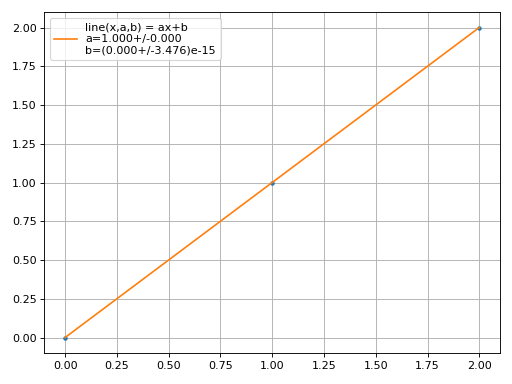
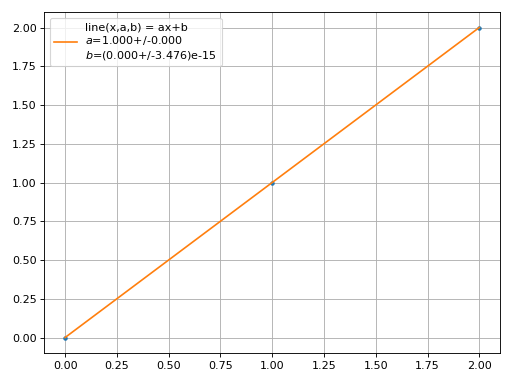
Deploying to gh-pages from  @ 46f5ffa9103cbf3bed100459b6ccd23b7ea56cbc 🚀

Changed region(s): [[0.0938, 0.0625, 0.4375, 0.1875], [0.125, 0.1562, 0.1562, 0.1875]]

diff --git a/searchindex.js b/searchindex.js
@@ -1,1 +1,1 @@
-Search.setIndex({docnames:["_autosummary/smpl.debug","_autosummary/smpl.doc","_autosummary/smpl.fit","_autosummary/smpl.functions","_autosummary/smpl.io","_autosummary/smpl.latex","_autosummary/smpl.parallel","_autosummary/smpl.plot","_autosummary/smpl.stat","_autosummary/smpl.util","example/fit/auto/test_auto","example/fit/custom/test_custom","example/fit/fixed_fit/test_fixed","example/fit/index","example/fit/linear/test_linear","example/fit/selective_fit/test_selective_fit","example/index","example/latex/latex","example/pandas/pandas","example/parallel/parallel","example/plot/functions/funcs","example/plot/index","example/plot/legend/legend","example/plot/multiplot/multi","example/plot/residue/residue","example/uncertainties/uncertainties","index"],envversion:{"sphinx.domains.c":2,"sphinx.domains.changeset":1,"sphinx.domains.citation":1,"sphinx.domains.cpp":3,"sphinx.domains.index":1,"sphinx.domains.javascript":2,"sphinx.domains.math":2,"sphinx.domains.python":2,"sphinx.domains.rst":2,"sphinx.domains.std":1,"sphinx.ext.todo":2,"sphinx.ext.viewcode":1,nbsphinx:3,sphinx:56},filenames:["_autosummary/smpl.debug.rst","_autosummary/smpl.doc.rst","_autosummary/smpl.fit.rst","_autosummary/smpl.functions.rst","_autosummary/smpl.io.rst","_autosummary/smpl.latex.rst","_autosummary/smpl.parallel.rst","_autosummary/smpl.plot.rst","_autosummary/smpl.stat.rst","_autosummary/smpl.util.rst","example/fit/auto/test_auto.ipynb","example/fit/custom/test_custom.ipynb","example/fit/fixed_fit/test_fixed.ipynb","example/fit/index.rst","example/fit/linear/test_linear.ipynb","example/fit/selective_fit/test_selective_fit.ipynb","example/index.rst","example/latex/latex.ipynb","example/pandas/pandas.ipynb","example/parallel/parallel.ipynb","example/plot/functions/funcs.ipynb","example/plot/index.rst","example/plot/legend/legend.ipynb","example/plot/multiplot/multi.ipynb","example/plot/residue/residue.ipynb","example/uncertainties/uncertainties.ipynb","index.rst"],objects:{"":{smpl:[26,0,0,"-"]},"smpl.debug":{file1:[0,1,1,""],file:[0,1,1,""],get_line_number_file:[0,1,1,""],msg1:[0,1,1,""],msg:[0,1,1,""],once:[0,1,1,""],table:[0,1,1,""],table_flush_header:[0,1,1,""],table_flush_line:[0,1,1,""]},"smpl.doc":{append_doc:[1,1,1,""],append_plot:[1,1,1,""],insert_doc:[1,1,1,""],insert_eq:[1,1,1,""],table:[1,1,1,""]},"smpl.fit":{auto:[2,1,1,""],data_split:[2,1,1,""],fit:[2,1,1,""],fit_kwargs:[2,1,1,""]},"smpl.functions":{"const":[3,1,1,""],cos_abs:[3,1,1,""],exponential:[3,1,1,""],gauss:[3,1,1,""],line:[3,1,1,""],linear:[3,1,1,""],lorentz:[3,1,1,""],quadratic:[3,1,1,""]},"smpl.io":{files:[4,1,1,""],gf:[4,1,1,""],mkdirs:[4,1,1,""],pr:[4,1,1,""],pwd:[4,1,1,""]},"smpl.latex":{gf:[5,1,1,""],si:[5,1,1,""],si_line:[5,1,1,""],si_tab:[5,1,1,""],si_ttab:[5,1,1,""]},"smpl.parallel":{calc:[6,1,1,""],gen:[6,1,1,""],par:[6,1,1,""],res:[6,1,1,""]},"smpl.plot":{"function":[7,1,1,""],auto:[7,1,1,""],data:[7,1,1,""],fit:[7,1,1,""],plot_kwargs:[7,1,1,""],unv:[7,1,1,""],usd:[7,1,1,""]},"smpl.stat":{mean:[8,1,1,""],noisy:[8,1,1,""],normalize:[8,1,1,""],novar_mean:[8,1,1,""],poisson_dist:[8,1,1,""],unv:[8,1,1,""],unv_lambda:[8,1,1,""],usd:[8,1,1,""]},"smpl.util":{"true":[9,1,1,""],has:[9,1,1,""]},smpl:{debug:[0,0,0,"-"],doc:[1,0,0,"-"],fit:[2,0,0,"-"],functions:[3,0,0,"-"],io:[4,0,0,"-"],latex:[5,0,0,"-"],parallel:[6,0,0,"-"],plot:[7,0,0,"-"],stat:[8,0,0,"-"],util:[9,0,0,"-"]}},objnames:{"0":["py","module","Python module"],"1":["py","function","Python function"]},objtypes:{"0":"py:module","1":"py:function"},terms:{"000000":18,"0000507902447304":19,"0034626572607985":24,"004652486401592212":11,"004996586085156836":11,"005548445222666175":11,"0175":11,"017517668891345015":11,"0370200979931061":24,"05947578069703216":24,"0675892412774686":11,"083666":18,"100":[10,19,20],"1000":7,"100000":18,"1000000":19,"1024":19,"1089":19,"1156":19,"116905":18,"121":19,"1225":19,"1296":19,"132":11,"1369":19,"137":11,"144":19,"1444":19,"150000":18,"1521":19,"1600":19,"1661903789690602":25,"16645873461885696":25,"166667":18,"1681":19,"169":19,"175000":18,"1764":19,"180":11,"183333":18,"1849":19,"1936":19,"196":19,"19838016816365187":24,"200":15,"200000":18,"2025":19,"2094692219099785e":11,"2116":19,"2209":19,"223":24,"225":19,"2304":19,"2319245292308779":25,"2401":19,"2500":19,"250000":18,"256":19,"25641481109282205":25,"2601":19,"2704":19,"2809":19,"289":19,"2916":19,"2\u03c0f":3,"300000":18,"3025":19,"3136":19,"31556952":19,"324":19,"3249":19,"33546981375820745":25,"3364":19,"3481":19,"3600":19,"361":19,"3721":19,"3844":19,"38541218410236494":25,"3969":19,"400":19,"400000":18,"4096":19,"4123105625617661":25,"4225":19,"43439132":22,"4356":19,"441":19,"4489":19,"4624":19,"4761":19,"484":19,"4900":19,"49820443885945703":25,"500000":18,"5041":19,"5184":19,"529":19,"5329":19,"5476":19,"5625":19,"576":19,"5776":19,"5929":19,"6084":19,"6169371384944835":11,"6241":19,"625":19,"634718":18,"6400":19,"6403124237432849":25,"6561":19,"666667":18,"6724":19,"676":19,"682941969615793":25,"6889":19,"7056":19,"7056000402993361":25,"7225":19,"727892280477045":25,"729":19,"7396":19,"750000":18,"7535456479788305":25,"7569":19,"77077909042768":11,"7744":19,"784":19,"7840124765396412":25,"7921":19,"799999999999997":19,"8100":19,"8281":19,"841":19,"8464":19,"8649":19,"870829":18,"8836":19,"900":19,"9025":19,"9092974268256817":25,"9216":19,"9219544457292886":25,"9409":19,"9604":19,"961":19,"966384":18,"9801":19,"class":[1,7,8],"const":3,"default":[2,7],"float":[7,8],"function":[0,1,2,4,5,6,7,8,9,10,11,12,14,15,16,19,21,22,23,24,25],"import":[3,7,10,11,12,14,15,17,18,19,20,22,23,24,25],"int":[0,23],"new":[4,7,14,19],"return":[0,2,4,5,6,7,8,11,15,19,23],"true":[0,1,2,7,9,24],Axes:24,The:[2,7],__doc__:1,_back:0,_kei:0,_msg:0,_print:0,_valu:0,abov:[0,4],add:[1,7,8],added:8,adt:23,against:7,all:[2,4,7],also:7,also_data:[7,15],also_fit:7,altern:[2,7],amp:[17,18],ani:4,anlg:11,apn:24,append:1,append_doc:1,append_plot:1,appli:8,arg:[1,6,7],arr:[7,8],arrai:[0,2,5,7,8,11,12,14,16,22,24],array_lik:[2,5,7],auto:[2,7,13,16],automat:[2,7],avail:[14,19],axessubplot:18,axi:7,back:0,basic:6,bbox_to_anchor:[7,22],becaus:[7,8],begin:18,best:[2,7],between:7,booktab:18,bool:[0,4],bottom:1,bottomrul:18,calc:[6,19],call:7,can:[7,8],cdot:3,check:9,choos:[2,7],code:[1,3,7],collect:26,color:7,column:7,com:22,combin:8,compat:[5,24],consid:[2,7],contain:[5,7,8],cos:[3,11,20],cos_ab:3,count:18,creat:4,csv:[0,11],current:[0,4],custom:[13,16],dat:24,data:[2,7,10,11,12,14,15,17,18,22,24,25],data_color:7,data_malu:11,data_split:2,datafram:18,datai:[2,7],datax:[2,7],ddot:20,debug_level:0,debug_t:0,def:[1,6,11,15,19,23],delimit:[11,18,24],delta:25,deriv:[7,8],describ:18,descript:[2,7],deviat:[7,8],dic:1,dict:[1,9],differ:7,digit:[4,5],directori:4,dirti:24,displai:7,doc:18,docstr:1,document:1,doe:[7,8],donatello:18,dot:[21,23],dtype:[11,24],each:[6,25],egg:24,either:[2,7],element:[0,2,6,7,8],enabl:[2,7],end:[4,18],equal:1,error:[8,25],errorbar:7,evalu:6,exampl:[1,6,7,26],execut:6,exp:[3,10,21,23],exponenti:3,fals:[0,4,7,15,23,24],figur:24,file1:0,file:[0,4,7],filenam:0,filenumb:0,first:[0,2,7],fit:[7,16,22,24,26],fit_color:7,fit_kwarg:[2,7],fix:[2,7,13,16,20],fixed_param:[2,7],fmt:[5,7,10,12,14,15,22,24],folder:[0,4],form:5,format:[4,5,7],found:10,frac:[3,20,23,25],frame:0,frang:[2,7,15],freq:18,from:[0,1,2,3,6,7,8,10,11,12,14,15,17,18,19,20,22,23,24,25],func:[2,7],gauss:3,gen:6,gener:[6,9],get:[0,4,5],get_line_number_fil:0,github:26,give:25,given:[2,7],gompertz:23,grid:7,has:9,have:7,here:25,highest:[2,7],hiho:1,hire:[3,7],home:24,http:[18,22,25],i_max:11,i_min:11,impli:[20,23],includ:[0,24],incorrect:24,index:[2,7,26],indic:0,init:[1,7,15,23,24],initi:[2,7],input:[4,5],insert:1,insert_doc:1,insert_eq:1,instal:[14,19],integ:[2,7],intens:11,interpol:[7,15],its:1,just:0,kei:[0,1,9],kwarg:[0,2,6,7],label:[7,10,12,14,15,22,24],lambda:[6,15,20],latest:25,latex:[16,26],left:3,legend:[7,16,21],level:0,lib:24,like:0,limit:[2,7],line:[3,4,5,7,12,14,15,22,24],line_:0,linear:[3,13,16,22],linenumb:0,linspac:[10,15],list:[2,3,6,7],llll:18,loadtxt:[10,11,12,14,15,17,22,24,25],local:24,log:[20,23],logarithm:7,logi:[7,24],logx:7,long_calc:19,loop:[2,7],lorentz:3,lowest:[2,7],lpo:[7,14,22],lt0:20,main:7,malu:11,mani:5,mask:[2,7,18],mathbb:20,matplotlib:24,matrix:[7,8],max:[11,18],mean:[8,18],messag:0,metast:20,midrul:18,might:24,min:[11,18],mkdir:4,model:24,modul:[7,8,26],msg1:0,msg:0,multi:[16,21],name:[2,7,18],ncol:[7,22],neccessari:4,need:18,nnl:4,nois:8,noisi:[8,10,15],nomin:[7,8],none:[2,7,9],normal:8,novar_mean:8,number:[0,5,7,8,16],number_format:7,numpi:[7,8,10,11,12,14,15,17,20,22,23,24,25],object:[1,11,24],onc:0,one:[0,2,7],onli:[0,7,8,20],optim:7,option:[2,7],order:[2,7],org:18,origin:1,orign:1,out:7,output:[4,5],over:[2,7],packag:[24,25],page:26,panda:[16,26],pane:7,par:[6,19],parallel:[16,26],param:[2,7,11,14,22],paramet:[0,1,2,4,5,7],partial:25,pass:[1,4,7,8],path:4,pdf:[3,7],phi:3,pip:[14,19],plot:[1,3,10,11,12,14,15,16,19,22,26],plot_kwarg:7,plt:[7,24],png:[3,7],point:[2,7,20],poisson_dist:8,poissonian:8,posit:7,prang:7,print:[0,1,4,6,17,18,19,25],propag:25,pure:[7,8],purpl:18,pwd:4,py3:24,pydata:18,pyplot:24,python3:24,python:[0,1,25],quadrat:3,rad:11,rang:[2,6,7,19],raphael:18,rdata:18,read:16,read_csv:18,readthedoc:25,red:18,res:[6,19],residu:[7,16,21],residue_err:[7,24],resolut:7,rest:1,result:[7,8,24],right:3,round:7,sai:18,same:[2,7],save:[0,7],scientif:[4,5],search:26,second:[0,2,7],see:[2,7,18,22,25],select:[2,7,13,16],selector:[2,7,15],separ:23,seper:0,set:[0,2,7],shift:7,should:0,show:[7,15,23],si_lin:[5,17],si_tab:[5,17],si_ttab:[5,17],sigma:[7,10,12,14,15,24],sign:1,simpl:1,simplifi:[0,1,2,4,5,7,8,9,26],simultan:[7,8],sin:[15,25],singl:16,sinu:15,sistr:5,site:24,size:7,skip:5,skiprow:[11,24],smpl:[10,11,12,14,15,17,18,19,20,22,23,24],solution_gompertz:23,sort:[2,7],sortbyx:[2,7],sourc:[0,1,2,3,4,5,6,7,8,9],split:[0,2],sqrt:25,stabl:[18,20],stack:0,stackoverflow:22,staff:18,standard:[7,8],stat:[10,15],statist:8,std:[8,15,18],step:[7,20],str:[0,5],string:[1,5,7],tab:[1,5],tabl:[0,1,5],table_flush_head:0,table_flush_lin:0,tabstr:5,tabular:18,tag:0,take:[2,7],tan:21,target:1,tesla:17,test:19,test_custom_data:11,test_data:15,test_linear_data:[10,12,14,17,18,22,24,25],test_quad_data:10,thi:[5,7,8,24,25],through:[7,8],tight_layout:24,time:[0,7],to_latex:18,top:[1,18],toprul:18,transpos:5,tupl:7,twice:6,txt:[10,12,14,15,17,18,22,24,25],type:[7,8],uarrai:[2,7,10,11,12,14,15,17,18,22,24,25],ufloat:[5,12,17,25],umath:25,uncertaint:7,uncertainti:[5,7,8,10,11,12,14,15,16,17,22,24,26],unchang:4,uniqu:18,unit:[5,7,11,24],unp:[2,7,10,11,12,14,15,17,18,22,24,25],unreleas:[20,23,24],unstabl:20,untouch:[7,8],unumpi:[7,8,10,11,12,14,15,17,18,22,24,25],unv:[7,8],unv_lambda:8,unvertainti:8,upgrad:[14,19],usd:[7,8],used:7,usepackag:18,user:[14,19],userwarn:24,using:[20,23,24],util:26,valu:[0,1,5,6,7,8],variabl:[2,7,23],varianc:8,variou:3,veri:6,version:[14,19,20,23,24],via:[7,14,19],weapon:18,whenev:0,which:8,whole:7,within:0,x_0:3,xaxi:[7,10,11,12,14,15,20,22,23,24],xdata:[10,11,12,14,15,17,22,24,25],xerr:[2,10,12,14,15,17,22,24,25],xlabel:18,xmax:[1,3,7,20,23],xmin:[1,3,7,20,23],y_0:3,yaxi:[7,10,11,12,14,15,20,22,23,24],ydata:[8,10,11,12,14,15,17,22,24,25],yerr:[2,10,12,14,15,17,22,24,25],yield:25,ymodel:24,you:[20,23,24]},titles:["<code class=\"xref py py-mod docutils literal notranslate\"><span class=\"pre\">smpl.debug</span></code>","<code class=\"xref py py-mod docutils literal notranslate\"><span class=\"pre\">smpl.doc</span></code>","<code class=\"xref py py-mod docutils literal notranslate\"><span class=\"pre\">smpl.fit</span></code>","<code class=\"xref py py-mod docutils literal notranslate\"><span class=\"pre\">smpl.functions</span></code>","<code class=\"xref py py-mod docutils literal notranslate\"><span class=\"pre\">smpl.io</span></code>","<code class=\"xref py py-mod docutils literal notranslate\"><span class=\"pre\">smpl.latex</span></code>","<code class=\"xref py py-mod docutils literal notranslate\"><span class=\"pre\">smpl.parallel</span></code>","<code class=\"xref py py-mod docutils literal notranslate\"><span class=\"pre\">smpl.plot</span></code>","<code class=\"xref py py-mod docutils literal notranslate\"><span class=\"pre\">smpl.stat</span></code>","<code class=\"xref py py-mod docutils literal notranslate\"><span class=\"pre\">smpl.util</span></code>","Auto Fit","Custom Fit","Fixed Fit","Fitting","Linear Fit","Selective Fit","Examples","Latex","pandas","Parallel","Function Plot","Plotting","Legend","Multi Plot","Residue Plot","uncertainties","smpl 0.0.65 documentation"],titleterms:{"function":[3,20],arrai:25,auto:10,custom:11,debug:0,doc:1,document:26,dot:20,exampl:16,exp:20,fit:[2,10,11,12,13,14,15],fix:12,indic:26,latex:[5,17,18],legend:22,linear:14,multi:23,number:25,packag:26,panda:18,parallel:[6,19],plot:[7,18,20,21,23,24],read:18,residu:24,select:15,singl:25,smpl:[0,1,2,3,4,5,6,7,8,9,26],stat:8,tabl:26,tan:20,uncertainti:[18,25],util:9}})
+Search.setIndex({docnames:["_autosummary/smpl.debug","_autosummary/smpl.doc","_autosummary/smpl.fit","_autosummary/smpl.functions","_autosummary/smpl.io","_autosummary/smpl.latex","_autosummary/smpl.parallel","_autosummary/smpl.plot","_autosummary/smpl.stat","_autosummary/smpl.util","example/fit/auto/test_auto","example/fit/custom/test_custom","example/fit/fixed_fit/test_fixed","example/fit/index","example/fit/linear/test_linear","example/fit/selective_fit/test_selective_fit","example/index","example/latex/latex","example/pandas/pandas","example/parallel/parallel","example/plot/functions/funcs","example/plot/index","example/plot/legend/legend","example/plot/multiplot/multi","example/plot/residue/residue","example/uncertainties/uncertainties","index"],envversion:{"sphinx.domains.c":2,"sphinx.domains.changeset":1,"sphinx.domains.citation":1,"sphinx.domains.cpp":3,"sphinx.domains.index":1,"sphinx.domains.javascript":2,"sphinx.domains.math":2,"sphinx.domains.python":2,"sphinx.domains.rst":2,"sphinx.domains.std":1,"sphinx.ext.todo":2,"sphinx.ext.viewcode":1,nbsphinx:3,sphinx:56},filenames:["_autosummary/smpl.debug.rst","_autosummary/smpl.doc.rst","_autosummary/smpl.fit.rst","_autosummary/smpl.functions.rst","_autosummary/smpl.io.rst","_autosummary/smpl.latex.rst","_autosummary/smpl.parallel.rst","_autosummary/smpl.plot.rst","_autosummary/smpl.stat.rst","_autosummary/smpl.util.rst","example/fit/auto/test_auto.ipynb","example/fit/custom/test_custom.ipynb","example/fit/fixed_fit/test_fixed.ipynb","example/fit/index.rst","example/fit/linear/test_linear.ipynb","example/fit/selective_fit/test_selective_fit.ipynb","example/index.rst","example/latex/latex.ipynb","example/pandas/pandas.ipynb","example/parallel/parallel.ipynb","example/plot/functions/funcs.ipynb","example/plot/index.rst","example/plot/legend/legend.ipynb","example/plot/multiplot/multi.ipynb","example/plot/residue/residue.ipynb","example/uncertainties/uncertainties.ipynb","index.rst"],objects:{"":{smpl:[26,0,0,"-"]},"smpl.debug":{file1:[0,1,1,""],file:[0,1,1,""],get_line_number_file:[0,1,1,""],msg1:[0,1,1,""],msg:[0,1,1,""],once:[0,1,1,""],table:[0,1,1,""],table_flush_header:[0,1,1,""],table_flush_line:[0,1,1,""]},"smpl.doc":{append_doc:[1,1,1,""],append_plot:[1,1,1,""],insert_doc:[1,1,1,""],insert_eq:[1,1,1,""],table:[1,1,1,""]},"smpl.fit":{auto:[2,1,1,""],data_split:[2,1,1,""],fit:[2,1,1,""],fit_kwargs:[2,1,1,""]},"smpl.functions":{"const":[3,1,1,""],cos_abs:[3,1,1,""],exponential:[3,1,1,""],gauss:[3,1,1,""],line:[3,1,1,""],linear:[3,1,1,""],lorentz:[3,1,1,""],quadratic:[3,1,1,""]},"smpl.io":{files:[4,1,1,""],gf:[4,1,1,""],mkdirs:[4,1,1,""],pr:[4,1,1,""],pwd:[4,1,1,""]},"smpl.latex":{gf:[5,1,1,""],si:[5,1,1,""],si_line:[5,1,1,""],si_tab:[5,1,1,""],si_ttab:[5,1,1,""]},"smpl.parallel":{calc:[6,1,1,""],gen:[6,1,1,""],par:[6,1,1,""],res:[6,1,1,""]},"smpl.plot":{"function":[7,1,1,""],auto:[7,1,1,""],data:[7,1,1,""],fit:[7,1,1,""],plot_kwargs:[7,1,1,""],unv:[7,1,1,""],usd:[7,1,1,""]},"smpl.stat":{mean:[8,1,1,""],noisy:[8,1,1,""],normalize:[8,1,1,""],novar_mean:[8,1,1,""],poisson_dist:[8,1,1,""],unv:[8,1,1,""],unv_lambda:[8,1,1,""],usd:[8,1,1,""]},"smpl.util":{"true":[9,1,1,""],has:[9,1,1,""]},smpl:{debug:[0,0,0,"-"],doc:[1,0,0,"-"],fit:[2,0,0,"-"],functions:[3,0,0,"-"],io:[4,0,0,"-"],latex:[5,0,0,"-"],parallel:[6,0,0,"-"],plot:[7,0,0,"-"],stat:[8,0,0,"-"],util:[9,0,0,"-"]}},objnames:{"0":["py","module","Python module"],"1":["py","function","Python function"]},objtypes:{"0":"py:module","1":"py:function"},terms:{"000000":18,"0000507902447304":19,"0034626572607985":24,"004652486401592212":11,"004996586085156836":11,"005548445222666175":11,"0175":11,"017517668891345015":11,"0370200979931061":24,"05947578069703216":24,"0675892412774686":11,"083666":18,"100":[10,19,20],"1000":7,"100000":18,"1000000":19,"1024":19,"1089":19,"1156":19,"116905":18,"121":19,"1225":19,"1296":19,"132":11,"1369":19,"137":11,"144":19,"1444":19,"150000":18,"1521":19,"1600":19,"1661903789690602":25,"16645873461885696":25,"166667":18,"1681":19,"169":19,"175000":18,"1764":19,"180":11,"183333":18,"1849":19,"1936":19,"196":19,"19838016816365187":24,"200":15,"200000":18,"2025":19,"2094692219099785e":11,"2116":19,"2209":19,"223":24,"225":19,"2304":19,"2319245292308779":25,"2401":19,"2500":19,"250000":18,"256":19,"25641481109282205":25,"2601":19,"2704":19,"2809":19,"289":19,"2916":19,"2\u03c0f":3,"300000":18,"3025":19,"3136":19,"31556952":19,"324":19,"3249":19,"33546981375820745":25,"3364":19,"3481":19,"3600":19,"361":19,"3721":19,"3844":19,"38541218410236494":25,"3969":19,"400":19,"400000":18,"4096":19,"4123105625617661":25,"4225":19,"43439132":22,"4356":19,"441":19,"4489":19,"4624":19,"4761":19,"484":19,"4900":19,"49820443885945703":25,"500000":18,"5041":19,"5184":19,"529":19,"5329":19,"5476":19,"5625":19,"576":19,"5776":19,"5929":19,"6084":19,"6169371384944835":11,"6241":19,"625":19,"634718":18,"6400":19,"6403124237432849":25,"6561":19,"666667":18,"6724":19,"676":19,"682941969615793":25,"6889":19,"7056":19,"7056000402993361":25,"7225":19,"727892280477045":25,"729":19,"7396":19,"750000":18,"7535456479788305":25,"7569":19,"77077909042768":11,"7744":19,"784":19,"7840124765396412":25,"7921":19,"799999999999997":19,"8100":19,"8281":19,"841":19,"8464":19,"8649":19,"870829":18,"8836":19,"900":19,"9025":19,"9092974268256817":25,"9216":19,"9219544457292886":25,"9409":19,"9604":19,"961":19,"966384":18,"9801":19,"class":[1,7,8],"const":3,"default":[2,7],"float":[7,8],"function":[0,1,2,4,5,6,7,8,9,10,11,12,14,15,16,19,21,22,23,24,25],"import":[3,7,10,11,12,14,15,17,18,19,20,22,23,24,25],"int":[0,23],"new":[4,7,14,19],"return":[0,2,4,5,6,7,8,11,15,19,23],"true":[0,1,2,7,9,24],Axes:24,The:[2,7],__doc__:1,_back:0,_kei:0,_msg:0,_print:0,_valu:0,abov:[0,4],add:[1,7,8],added:8,adt:23,against:7,all:[2,4,7],also:7,also_data:[7,15],also_fit:7,altern:[2,7],amp:[17,18],ani:4,anlg:11,apn:24,append:1,append_doc:1,append_plot:1,appli:8,arg:[1,6,7],arr:[7,8],arrai:[0,2,5,7,8,11,12,14,16,22,24],array_lik:[2,5,7],auto:[2,7,13,16],automat:[2,7],avail:[14,19],axessubplot:18,axi:7,back:0,basic:6,bbox_to_anchor:[7,22],becaus:[7,8],begin:18,best:[2,7],between:7,booktab:18,bool:[0,4],bottom:1,bottomrul:18,calc:[6,19],call:7,can:[7,8],cdot:3,check:9,choos:[2,7],code:[1,3,7],collect:26,color:7,column:7,com:22,combin:8,compat:[5,24],consid:[2,7],contain:[5,7,8],cos:[3,11,20],cos_ab:3,count:18,creat:4,csv:[0,11],current:[0,4],custom:[13,16],dat:24,data:[2,7,10,11,12,14,15,17,18,22,24,25],data_color:7,data_malu:11,data_split:2,datafram:18,datai:[2,7],datax:[2,7],ddot:20,debug_level:0,debug_t:0,def:[1,6,11,15,19,23],delimit:[11,18,24],delta:25,deriv:[7,8],describ:18,descript:[2,7],deviat:[7,8],dic:1,dict:[1,9],differ:7,digit:[4,5],directori:4,dirti:24,displai:7,doc:18,docstr:1,document:1,doe:[7,8],donatello:18,dot:[21,23],dtype:[11,24],each:[6,25],egg:24,either:[2,7],element:[0,2,6,7,8],enabl:[2,7],end:[4,18],equal:1,error:[8,25],errorbar:7,evalu:6,exampl:[1,6,7,26],execut:6,exp:[3,10,21,23],exponenti:3,fals:[0,4,7,15,23,24],figur:24,file1:0,file:[0,4,7],filenam:0,filenumb:0,first:[0,2,7],fit:[7,16,22,24,26],fit_color:7,fit_kwarg:[2,7],fix:[2,7,13,16,20],fixed_param:[2,7],fmt:[5,7,10,12,14,15,22,24],folder:[0,4],form:5,format:[4,5,7],found:10,frac:[3,20,23,25],frame:0,frang:[2,7,15],freq:18,from:[0,1,2,3,6,7,8,10,11,12,14,15,17,18,19,20,22,23,24,25],func:[2,7],gauss:3,gen:6,gener:[6,9],get:[0,4,5],get_line_number_fil:0,github:26,give:25,given:[2,7],gompertz:23,grid:7,has:9,have:7,here:25,highest:[2,7],hiho:1,hire:[3,7],home:24,http:[18,22,25],i_max:11,i_min:11,impli:[20,23],includ:[0,24],incorrect:24,index:[2,7,26],indic:0,init:[1,7,15,23,24],initi:[2,7],input:[4,5],insert:1,insert_doc:1,insert_eq:1,instal:[14,19],integ:[2,7],intens:11,interpol:[7,15],its:1,just:0,kei:[0,1,9],kwarg:[0,2,6,7],label:[7,10,12,14,15,22,24],lambda:[6,15,20],latest:25,latex:[16,26],left:3,legend:[7,16,21],level:0,lib:24,like:0,limit:[2,7],line:[3,4,5,7,12,14,15,22,24],line_:0,linear:[3,13,16,22],linenumb:0,linspac:[10,15],list:[2,3,6,7],llll:18,loadtxt:[10,11,12,14,15,17,22,24,25],local:24,log:[20,23],logarithm:7,logi:[7,24],logx:7,long_calc:19,loop:[2,7],lorentz:3,lowest:[2,7],lpo:[7,14,22],lt0:20,main:7,malu:11,mani:5,mask:[2,7,18],mathbb:20,matplotlib:24,matrix:[7,8],max:[11,18],mean:[8,18],messag:0,metast:20,midrul:18,might:24,min:[11,18],mkdir:4,model:24,modul:[7,8,26],msg1:0,msg:0,multi:[16,21],name:[2,7,18],ncol:[7,22],neccessari:4,need:18,nnl:4,nois:8,noisi:[8,10,15],nomin:[7,8],none:[2,7,9],normal:8,novar_mean:8,number:[0,5,7,8,16],number_format:7,numpi:[7,8,10,11,12,14,15,17,20,22,23,24,25],object:[1,11,24],onc:0,one:[0,2,7],onli:[0,7,8,20],optim:7,option:[2,7],order:[2,7],org:18,origin:1,orign:1,out:7,output:[4,5],over:[2,7],packag:[24,25],page:26,panda:[16,26],pane:7,par:[6,19],parallel:[16,26],param:[2,7,11,14,22],paramet:[0,1,2,4,5,7],partial:25,pass:[1,4,7,8],path:4,pdf:[3,7],phi:3,pip:[14,19],plot:[1,3,10,11,12,14,15,16,19,22,26],plot_kwarg:7,plt:[7,24],png:[3,7],point:[2,7,20],poisson_dist:8,poissonian:8,posit:7,prang:7,print:[0,1,4,6,17,18,19,25],propag:25,pure:[7,8],purpl:18,pwd:4,py3:24,pydata:18,pyplot:24,python3:24,python:[0,1,25],quadrat:3,rad:11,rang:[2,6,7,19],raphael:18,rdata:18,read:16,read_csv:18,readthedoc:25,red:18,res:[6,19],residu:[7,16,21],residue_err:[7,24],resolut:7,rest:1,result:[7,8,24],right:3,round:7,sai:18,same:[2,7],save:[0,7],scientif:[4,5],search:26,second:[0,2,7],see:[2,7,18,22,25],select:[2,7,13,16],selector:[2,7,15],separ:23,seper:0,set:[0,2,7],shift:7,should:0,show:[7,15,23],si_lin:[5,17],si_tab:[5,17],si_ttab:[5,17],sigma:[7,10,12,14,15,24],sign:1,simpl:1,simplifi:[0,1,2,4,5,7,8,9,26],simultan:[7,8],sin:[15,25],singl:16,sinu:15,sistr:5,site:24,size:7,skip:5,skiprow:[11,24],smpl:[10,11,12,14,15,17,18,19,20,22,23,24],solution_gompertz:23,sort:[2,7],sortbyx:[2,7],sourc:[0,1,2,3,4,5,6,7,8,9],split:[0,2],sqrt:25,stabl:[18,20],stack:0,stackoverflow:22,staff:18,standard:[7,8],stat:[10,15],statist:8,std:[8,15,18],step:[7,20],str:[0,5],string:[1,5,7],tab:[1,5],tabl:[0,1,5],table_flush_head:0,table_flush_lin:0,tabstr:5,tabular:18,tag:0,take:[2,7],tan:21,target:1,tesla:17,test:19,test_custom_data:11,test_data:15,test_linear_data:[10,12,14,17,18,22,24,25],test_quad_data:10,thi:[5,7,8,24,25],through:[7,8],tight_layout:24,time:[0,7],to_latex:18,top:[1,18],toprul:18,transpos:5,tupl:7,twice:6,txt:[10,12,14,15,17,18,22,24,25],type:[7,8],uarrai:[2,7,10,11,12,14,15,17,18,22,24,25],ufloat:[5,12,17,25],umath:25,uncertaint:7,uncertainti:[5,7,8,10,11,12,14,15,16,17,22,24,26],unchang:4,uniqu:18,unit:[5,7,11,24],unp:[2,7,10,11,12,14,15,17,18,22,24,25],unreleas:[20,23,24],unstabl:20,untouch:[7,8],unumpi:[7,8,10,11,12,14,15,17,18,22,24,25],unv:[7,8],unv_lambda:8,unvertainti:8,upgrad:[14,19],usd:[7,8],used:7,usepackag:18,user:[14,19],userwarn:24,using:[20,23,24],util:26,valu:[0,1,5,6,7,8],variabl:[2,7,23],varianc:8,variou:3,veri:6,version:[14,19,20,23,24],via:[7,14,19],weapon:18,whenev:0,which:8,whole:7,within:0,x_0:3,xaxi:[7,10,11,12,14,15,20,22,23,24],xdata:[10,11,12,14,15,17,22,24,25],xerr:[2,10,12,14,15,17,22,24,25],xlabel:18,xmax:[1,3,7,20,23],xmin:[1,3,7,20,23],y_0:3,yaxi:[7,10,11,12,14,15,20,22,23,24],ydata:[8,10,11,12,14,15,17,22,24,25],yerr:[2,10,12,14,15,17,22,24,25],yield:25,ymodel:24,you:[20,23,24]},titles:["<code class=\"xref py py-mod docutils literal notranslate\"><span class=\"pre\">smpl.debug</span></code>","<code class=\"xref py py-mod docutils literal notranslate\"><span class=\"pre\">smpl.doc</span></code>","<code class=\"xref py py-mod docutils literal notranslate\"><span class=\"pre\">smpl.fit</span></code>","<code class=\"xref py py-mod docutils literal notranslate\"><span class=\"pre\">smpl.functions</span></code>","<code class=\"xref py py-mod docutils literal notranslate\"><span class=\"pre\">smpl.io</span></code>","<code class=\"xref py py-mod docutils literal notranslate\"><span class=\"pre\">smpl.latex</span></code>","<code class=\"xref py py-mod docutils literal notranslate\"><span class=\"pre\">smpl.parallel</span></code>","<code class=\"xref py py-mod docutils literal notranslate\"><span class=\"pre\">smpl.plot</span></code>","<code class=\"xref py py-mod docutils literal notranslate\"><span class=\"pre\">smpl.stat</span></code>","<code class=\"xref py py-mod docutils literal notranslate\"><span class=\"pre\">smpl.util</span></code>","Auto Fit","Custom Fit","Fixed Fit","Fitting","Linear Fit","Selective Fit","Examples","Latex","pandas","Parallel","Function Plot","Plotting","Legend","Multi Plot","Residue Plot","uncertainties","smpl 0.0.66 documentation"],titleterms:{"function":[3,20],arrai:25,auto:10,custom:11,debug:0,doc:1,document:26,dot:20,exampl:16,exp:20,fit:[2,10,11,12,13,14,15],fix:12,indic:26,latex:[5,17,18],legend:22,linear:14,multi:23,number:25,packag:26,panda:18,parallel:[6,19],plot:[7,18,20,21,23,24],read:18,residu:24,select:15,singl:25,smpl:[0,1,2,3,4,5,6,7,8,9,26],stat:8,tabl:26,tan:20,uncertainti:[18,25],util:9}})

diff --git a/_modules/smpl/plot/plot.html b/_modules/smpl/plot/plot.html
@@ -336,7 +336,7 @@
         <span class="n">l</span> <span class="o">=</span> <span class="n">function</span><span class="o">.</span><span class="vm">__doc__</span><span class="o">.</span><span class="n">split</span><span class="p">(</span><span class="s1">&#39;</span><span class="se">\n</span><span class="s1">&#39;</span><span class="p">)[</span><span class="mi">0</span><span class="p">]</span>
     <span class="k">for</span> <span class="n">i</span> <span class="ow">in</span> <span class="nb">range</span><span class="p">(</span><span class="mi">1</span><span class="p">,</span><span class="nb">len</span><span class="p">(</span><span class="n">function</span><span class="o">.</span><span class="vm">__code__</span><span class="o">.</span><span class="n">co_varnames</span><span class="p">)):</span>
         <span class="n">l</span> <span class="o">=</span> <span class="n">l</span> <span class="o">+</span> <span class="s2">&quot;</span><span class="se">\n</span><span class="s2">&quot;</span>
-        <span class="n">l</span> <span class="o">=</span> <span class="n">l</span> <span class="o">+</span> <span class="s2">&quot;&quot;</span> <span class="o">+</span> <span class="n">sympy</span><span class="o">.</span><span class="n">latex</span><span class="p">(</span><span class="n">sympy</span><span class="o">.</span><span class="n">symbols</span><span class="p">(</span><span class="nb">str</span><span class="p">(</span><span class="n">function</span><span class="o">.</span><span class="vm">__code__</span><span class="o">.</span><span class="n">co_varnames</span><span class="p">[</span><span class="n">i</span><span class="p">])))</span> <span class="o">+</span> <span class="s2">&quot;=&quot;</span>
+        <span class="n">l</span> <span class="o">=</span> <span class="n">l</span> <span class="o">+</span> <span class="s2">&quot;$&quot;</span> <span class="o">+</span> <span class="n">sympy</span><span class="o">.</span><span class="n">latex</span><span class="p">(</span><span class="n">sympy</span><span class="o">.</span><span class="n">symbols</span><span class="p">(</span><span class="nb">str</span><span class="p">(</span><span class="n">function</span><span class="o">.</span><span class="vm">__code__</span><span class="o">.</span><span class="n">co_varnames</span><span class="p">[</span><span class="n">i</span><span class="p">])))</span> <span class="o">+</span> <span class="s2">&quot;$=&quot;</span>
         <span class="k">if</span> <span class="n">kwargs</span><span class="p">[</span><span class="s1">&#39;units&#39;</span><span class="p">]</span> <span class="ow">is</span> <span class="ow">not</span> <span class="kc">None</span> <span class="ow">and</span> <span class="n">usd</span><span class="p">(</span><span class="n">fit</span><span class="p">[</span><span class="n">i</span><span class="o">-</span><span class="mi">1</span><span class="p">])</span><span class="o">&gt;</span><span class="mi">0</span><span class="p">:</span>
             <span class="n">l</span> <span class="o">=</span> <span class="n">l</span> <span class="o">+</span> <span class="s2">&quot;(&quot;</span>
         <span class="k">if</span> <span class="s1">&#39;number_format&#39;</span> <span class="ow">in</span> <span class="n">kwargs</span><span class="p">:</span>

diff --git a/index.html b/index.html
@@ -5,7 +5,7 @@
   <head>
     <meta charset="utf-8" />
     <meta name="viewport" content="width=device-width, initial-scale=1.0" />
-    <title>smpl 0.0.65 documentation &#8212; smpl  documentation</title>
+    <title>smpl 0.0.66 documentation &#8212; smpl  documentation</title>
     <link rel="stylesheet" href="_static/pygments.css" type="text/css" />
     <link rel="stylesheet" href="_static/alabaster.css" type="text/css" />
     <script id="documentation_options" data-url_root="./" src="_static/documentation_options.js"></script>
@@ -35,7 +35,7 @@
           <div class="body" role="main">
             
   <div class="section" id="smpl-version-documentation">
-<h1>smpl 0.0.65 documentation<a class="headerlink" href="#smpl-version-documentation" title="Permalink to this headline">¶</a></h1>
+<h1>smpl 0.0.66 documentation<a class="headerlink" href="#smpl-version-documentation" title="Permalink to this headline">¶</a></h1>
 <div class="toctree-wrapper compound">
 <ul>
 <li class="toctree-l1"><a class="reference external" href="https://github.com/APN-Pucky/smpl">GitHub</a></li>

diff --git a/example/index.html b/example/index.html
@@ -18,7 +18,7 @@
     <link rel="index" title="Index" href="../genindex.html" />
     <link rel="search" title="Search" href="../search.html" />
     <link rel="next" title="Plotting" href="plot/index.html" />
-    <link rel="prev" title="smpl 0.0.65 documentation" href="../index.html" />
+    <link rel="prev" title="smpl 0.0.66 documentation" href="../index.html" />
    
   <link rel="stylesheet" href="../_static/custom.css" type="text/css" />
   
@@ -118,7 +118,7 @@
 <h3>Related Topics</h3>
 <ul>
   <li><a href="../index.html">Documentation overview</a><ul>
-      <li>Previous: <a href="../index.html" title="previous chapter">smpl 0.0.65 documentation</a></li>
+      <li>Previous: <a href="../index.html" title="previous chapter">smpl 0.0.66 documentation</a></li>
       <li>Next: <a href="plot/index.html" title="next chapter">Plotting</a></li>
   </ul></li>
 </ul>
